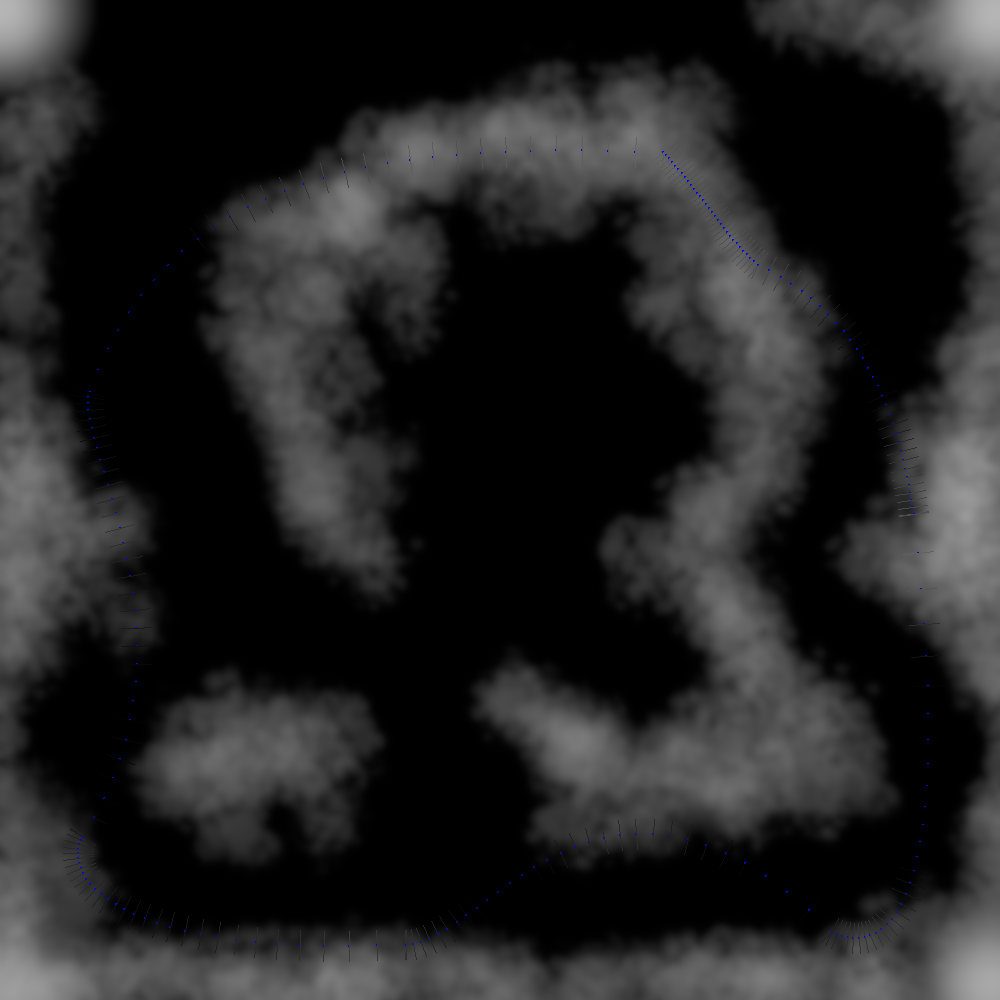
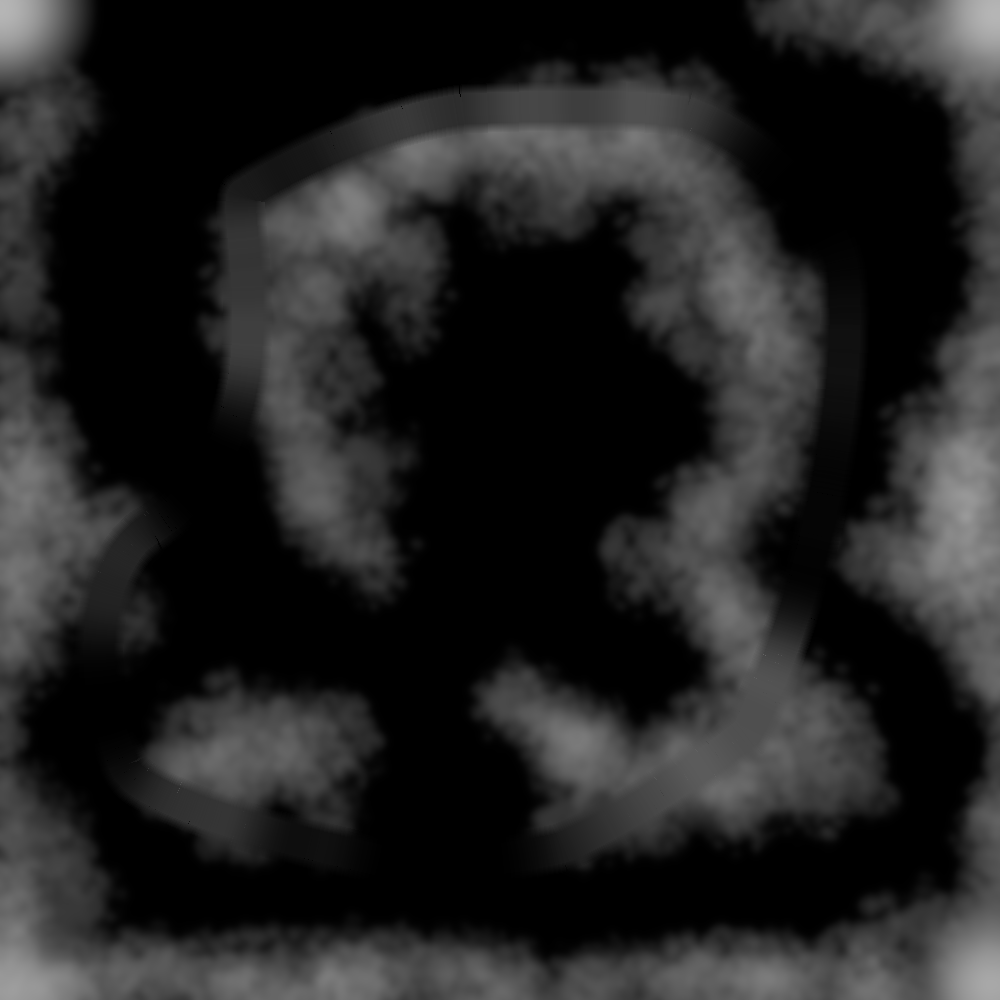
Something is working

diff --git a/main.py b/main.py
@@ -1,11 +1,12 @@
 import pygame
+from pygame.locals import *
 import sys
 
 # Initialize Pygame
 pygame.init()
 
 # Set up the window
-window_size = (750, 750)
+window_size = (1500, 1000)
 window = pygame.display.set_mode(window_size)
 pygame.display.set_caption("Map Builder")
 
@@ -46,6 +47,16 @@ def cubic_bezier_derivative(t, p0, p1, p2, p3):
                   3 * u**2 * (p1[1] - p0[1]) + 6 * u * t * (p2[1] - p1[1]) + 3 * t**2 * (p3[1] - p2[1]))
     return derivative
 
+def cubic_bezier_second_derivative(t, p0, p1, p2, p3):
+    # Convert tuples to lists for element-wise operations
+    p0, p1, p2, p3 = list(p0), list(p1), list(p2), list(p3)
+
+    # Calculate the second derivative components
+    second_derivative_x = 6 * (1 - t) * (p2[0] - 2 * p1[0] + p0[0]) + 6 * t * (p3[0] - 2 * p2[0] + p1[0])
+    second_derivative_y = 6 * (1 - t) * (p2[1] - 2 * p1[1] + p0[1]) + 6 * t * (p3[1] - 2 * p2[1] + p1[1])
+
+    return (second_derivative_x, second_derivative_y)
+
 #* ---------------------------------------------------------------------
 
 #* ------------- Map Exporting Functions (and Algorithms) ---------------
@@ -53,34 +64,53 @@ def cubic_bezier_derivative(t, p0, p1, p2, p3):
 def export_draw_bezier_curve(window, points, color=(0, 0, 255), heightmap=None, curve_granularity=CURVE_GRAN, neighborhood_size=30):
     scaled_points = [( int(p[0]), int(p[1]) ) for p in points]
     
-
     for t in range(curve_granularity+1):
         t /= curve_granularity
         p = cubic_bezier(t, *scaled_points)
         derivative = cubic_bezier_derivative(t, *scaled_points)
         
         tangent = pygame.math.Vector2(derivative).normalize()
-        normal = pygame.math.Vector2(-tangent.y, tangent.x)
+        UNIT_Normal = pygame.math.Vector2(-tangent.y, tangent.x)
+
         normal_length = 15
-        normal = normal * normal_length
+        border_length = 10
+
+        normal = UNIT_Normal * normal_length
+        normal_border = UNIT_Normal * (normal_length + border_length)
 
         if heightmap:
             averaged_brightness = average_neighborhood_height(int(p[0]), int(p[1]), heightmap, neighborhood_size)
 
             int_col = int(averaged_brightness)
-            outer_line_color = pygame.Color(int_col, int_col, int_col)
-            inner_line_color = outer_line_color
+            AVG_Road_color = pygame.Color(int_col, int_col, int_col)
+
         else:
-            outer_line_color = (255, 0, 0)  
-            inner_line_color = (0, 255, 0)
+            AVG_Road_color=  (255,0,0)
 
-        pygame.draw.circle(window, color, (int(p[0]), int(p[1])), 1)
-        normal_start = (int(p[0]), int(p[1]))
-        normal_end = (int(p[0] + normal.x), int(p[1] + normal.y))
-        pygame.draw.line(window, outer_line_color, normal_start, normal_end)
+        #pygame.draw.circle(window, color, (int(p[0]), int(p[1])), 1)
+        
+        normal_start = (int(p[0]), int(p[1])) #* Used in both Inner & Outer Normal Draws
+        
+        # Red Normal (Outer Normal)
+        outer_normal_end = (int(p[0] + normal.x), int(p[1] + normal.y))
+        pygame.draw.line(window, AVG_Road_color, normal_start, outer_normal_end)
 
-        normal_end_opposite = (int(p[0] - normal.x), int(p[1] - normal.y))
-        pygame.draw.line(window, inner_line_color, normal_start, normal_end_opposite)
+        # Green Normal (Inner Normal) 
+        inner_normal_end = (int(p[0] - normal.x), int(p[1] - normal.y))
+        pygame.draw.line(window, AVG_Road_color, normal_start, inner_normal_end)
+
+        map_color = (255, 255, 255)  # Replace with the actual map color at the border point
+        #* Road Borders
+
+        outer_border_end = (int(p[0] + normal_border.x), int(p[1] + normal_border.y))
+        map_color_outer = heightmap.get_at(outer_border_end)
+
+        draw_gradient_line(window, outer_normal_end, outer_border_end, AVG_Road_color, map_color_outer)
+
+        inner_border_end = (int(p[0] - normal_border.x), int(p[1] - normal_border.y))
+        map_color_inner = heightmap.get_at(inner_border_end)
+        
+        draw_gradient_line(window, inner_normal_end, inner_border_end, AVG_Road_color, map_color_inner)
 
 Export_Map = pygame.Surface((map_image.get_width(), map_image.get_height()))
 
@@ -90,7 +120,8 @@ def export_map_image():
 
     for i in range(0, len(click_locations) - 3, 3):
         curve_points = [click_locations[i], click_locations[i+1], click_locations[i+2], click_locations[i+3]]
-        export_draw_bezier_curve(Export_Map, curve_points, (0,0,255), map_image, 30)
+        export_draw_bezier_curve(Export_Map, curve_points, (0,0,255), map_image, 5000)
+        print("POINT LOC: "+str(i)+ " COMPLETE...")
 
     pygame.image.save(Export_Map, 'exported_map.png')
     return 0
@@ -113,14 +144,38 @@ def average_neighborhood_height(x, y, heightmap, neighborhood_size):
 #* ---------------------------------------------------------------------
 
 
+def lerp_color(color1, color2, t):
+    """Linearly interpolate between two colors."""
+    return [int(a + (b - a) * t) for a, b in zip(color1, color2)]
+
+def draw_gradient_line(surface, start_pos, end_pos, start_color, end_color, width=1):
+    """Draw a line with a linear color gradient."""
+    x1, y1 = start_pos
+    x2, y2 = end_pos
+    dx, dy = x2 - x1, y2 - y1
+    distance = max(abs(dx), abs(dy))
+    for i in range(distance):
+        t = i / distance
+        color = lerp_color(start_color, end_color, t)
+        x = int(x1 + dx * t)
+        y = int(y1 + dy * t)
+        pygame.draw.line(surface, color, (x, y), (x, y), width)
+
+#* ------------------------
+
 # Function to draw a cubic Bezier curve with scaling
 def draw_bezier_curve(window, points, zoom, offset, color=(0, 0, 255), heightmap=None, neighborhood_size=30):
     scaled_points = [(int(p[0] * zoom + offset[0]), int(p[1] * zoom + offset[1])) for p in points]
     
     for t in range(CURVE_GRAN+1):
+
+        # *scaled_points isn't a PTR ! LOL, it's an unpacking directive, *scaled_points = [ (x1,y1) , (x2,y2) , ... , (xn, yn) ]
+
         t /= CURVE_GRAN
+
         p = cubic_bezier(t, *scaled_points)
         derivative = cubic_bezier_derivative(t, *scaled_points)
+        second_derivative = cubic_bezier_second_derivative(t, *scaled_points)
         
         tangent = pygame.math.Vector2(derivative).normalize()
         UNIT_Normal = pygame.math.Vector2(-tangent.y, tangent.x)
@@ -128,13 +183,19 @@ def draw_bezier_curve(window, points, zoom, offset, color=(0, 0, 255), heightmap
         normal_length = 15
         border_length = 10
 
+        second_derivative_length = 100  # Length for second derivative line
+
         normal = UNIT_Normal * normal_length
         normal_border = UNIT_Normal * (normal_length + border_length)
+        
+        second_derivative_line = pygame.math.Vector2(second_derivative).normalize() * second_derivative_length
 
         if heightmap:
             averaged_brightness = average_neighborhood_height(int(p[0]), int(p[1]), heightmap, neighborhood_size)
 
             int_col = int(averaged_brightness)
+            
+            #* --- Setting Inner & Outer to AVG. Brightness ---
             outer_line_color = pygame.Color(int_col, int_col, int_col)
             inner_line_color = outer_line_color
         else:
@@ -153,13 +214,51 @@ def draw_bezier_curve(window, points, zoom, offset, color=(0, 0, 255), heightmap
         inner_normal_end = (int(p[0] - normal.x), int(p[1] - normal.y))
         pygame.draw.line(window, inner_line_color, normal_start, inner_normal_end)
 
-        # Draw Borders (In Purple)
+        #* [--------------------- Road Borders  ---------------------]
 
         outer_border_end = (int(p[0] + normal_border.x), int(p[1] + normal_border.y))
         pygame.draw.line(window, (130,0,255), outer_normal_end, outer_border_end)
 
         inner_border_end = (int(p[0] - normal_border.x), int(p[1] - normal_border.y))
         pygame.draw.line(window, (130,0,255), inner_normal_end, inner_border_end)
+
+         # Draw Second Derivative Line (In Orange)
+        second_derivative_end = (int(p[0] + second_derivative_line.x), int(p[1] + second_derivative_line.y))
+        #pygame.draw.line(window, (255, 165, 0), normal_start, second_derivative_end)
+
+
+def draw_second_derivative_curves(window, points, zoom, offset, color=(0, 0, 255), heightmap=None, neighborhood_size=30):
+    scaled_points = [(int(p[0] * zoom + offset[0]), int(p[1] * zoom + offset[1])) for p in points]
+    
+    for t in range(CURVE_GRAN+1):
+
+        # *scaled_points isn't a PTR ! LOL, it's an unpacking directive, *scaled_points = [ (x1,y1) , (x2,y2) , ... , (xn, yn) ]
+
+        t /= CURVE_GRAN
+
+        p = cubic_bezier(t, *scaled_points)
+        second_derivative = cubic_bezier_second_derivative(t, *scaled_points)
+        
+        second_derivative_length = 100  # Length for second derivative line
+
+        second_derivative_line = pygame.math.Vector2(second_derivative).normalize() * second_derivative_length
+
+        # if heightmap:
+        #     averaged_brightness = average_neighborhood_height(int(p[0]), int(p[1]), heightmap, neighborhood_size)
+
+        #     int_col = int(averaged_brightness)
+        #     outer_line_color = pygame.Color(int_col, int_col, int_col)
+        #     inner_line_color = outer_line_color
+        # else:
+        #     outer_line_color = (255, 0, 0)  
+        #     inner_line_color = (0, 255, 0)
+
+        normal_start = (int(p[0]), int(p[1]))
+        
+         # Draw Second Derivative Line (In Orange)
+        second_derivative_end = (int(p[0] + second_derivative_line.x), int(p[1] + second_derivative_line.y))
+        pygame.draw.line(window, (255, 165, 0), normal_start, second_derivative_end)
+
 
 
 def get_pixel_coordinates(click_x, click_y, offset, zoom):
@@ -279,9 +378,15 @@ while running:
 
         pygame.draw.circle(window, (255, 255, 0), (circle_x, circle_y), scaled_circle_radius)
     
-    for i in range(0, len(click_locations) - 3, 3):
+    CLICK_LOC_LEN = len(click_locations)
+
+    for i in range(0, CLICK_LOC_LEN - 3, 3):
         curve_points = [click_locations[i], click_locations[i+1], click_locations[i+2], click_locations[i+3]]
         draw_bezier_curve(window, curve_points, zoom, offset, (0,0,255), None)
+
+    for j in range(0, CLICK_LOC_LEN - 3, 3):
+        curve_points = [click_locations[j], click_locations[j+1], click_locations[j+2], click_locations[j+3]]
+        #draw_second_derivative_curves(window, curve_points, zoom, offset, (0,0,255), None)
 
     pygame.display.flip()
 
